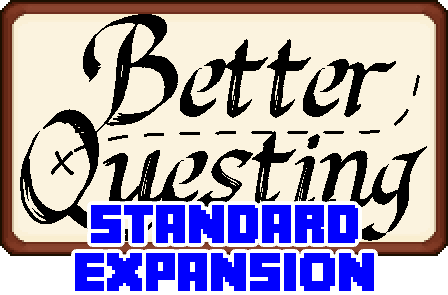
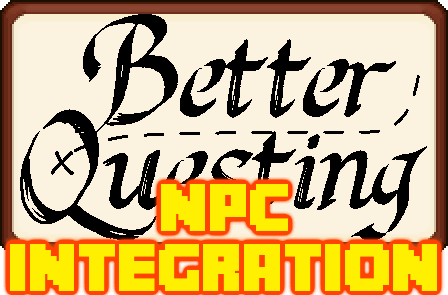
Added a few missing localizations Added faction task Fixed incorrect title card Fixed update notifications

Changed region(s): [[0.0, 0.5797, 1.0, 1.0]]

diff --git a/src/main/java/bq_npc_integration/tasks/TaskNpcFaction.java b/src/main/java/bq_npc_integration/tasks/TaskNpcFaction.java
@@ -2,18 +2,83 @@ package bq_npc_integration.tasks;
 
 import java.util.ArrayList;
 import java.util.UUID;
+import net.minecraft.entity.player.EntityPlayer;
+import noppes.npcs.controllers.PlayerData;
+import noppes.npcs.controllers.PlayerDataController;
 import betterquesting.client.gui.GuiQuesting;
 import betterquesting.client.gui.misc.GuiEmbedded;
+import betterquesting.quests.QuestDatabase;
 import betterquesting.quests.tasks.TaskBase;
+import betterquesting.utils.JsonHelper;
+import bq_npc_integration.client.gui.tasks.GuiTaskFaction;
 import bq_npc_integration.core.BQ_NPCs;
+import com.google.gson.JsonObject;
 
 public class TaskNpcFaction extends TaskBase
 {
+	public int factionID = 0;
+	public int target = 10;
+	public PointOperation operation = PointOperation.MORE_OR_EQUAL;
 	
 	@Override
 	public String getUnlocalisedName()
 	{
 		return BQ_NPCs.MODID + ".task.faction";
+	}
+	
+	@Override
+	public void Update(EntityPlayer player)
+	{
+		if(player.worldObj.getWorldTime()%60 != 0 || isComplete(player.getUniqueID()) || QuestDatabase.editMode)
+		{
+			return;
+		}
+		
+		Detect(player);
+	}
+	
+	@Override
+	public void Detect(EntityPlayer player)
+	{
+		if(isComplete(player.getUniqueID()))
+		{
+			return;
+		}
+		
+		PlayerData pData = PlayerDataController.instance.getPlayerData(player);
+		
+		if(pData == null || !pData.factionData.factionData.containsKey(factionID))
+		{
+			return;
+		}
+		
+		int points = pData.factionData.getFactionPoints(factionID);
+		
+		boolean flag = false;
+		
+		switch(operation)
+		{
+			case EQUAL:
+				flag = points == target;
+				break;
+			case LESS_THAN:
+				flag = points < target;
+				break;
+			case MORE_THAN:
+				flag = points > target;
+				break;
+			case LESS_OR_EQUAL:
+				flag = points <= target;
+				break;
+			case MORE_OR_EQUAL:
+				flag = points >= target;
+				break;
+		}
+		
+		if(flag)
+		{
+			this.completeUsers.add(player.getUniqueID());
+		}
 	}
 	
 	@Override
@@ -29,9 +94,49 @@ public class TaskNpcFaction extends TaskBase
 	}
 	
 	@Override
-	public GuiEmbedded getGui(GuiQuesting screen, int posX, int posY, int sizeX, int sizeY)
+	public void readFromJson(JsonObject json)
 	{
-		return null;
+		super.readFromJson(json);
+		
+		factionID = JsonHelper.GetNumber(json, "factionID", 0).intValue();
+		target = JsonHelper.GetNumber(json, "target", 1).intValue();
+		operation = PointOperation.valueOf(JsonHelper.GetString(json, "operation", "MORE_OR_EQUAL").toUpperCase());
+		operation = operation != null? operation : PointOperation.MORE_OR_EQUAL;
 	}
 	
+	@Override
+	public void writeToJson(JsonObject json)
+	{
+		super.writeToJson(json);
+		
+		json.addProperty("factionID", factionID);
+		json.addProperty("target", target);
+		json.addProperty("operation", operation.name());
+	}
+	
+	@Override
+	public GuiEmbedded getGui(GuiQuesting screen, int posX, int posY, int sizeX, int sizeY)
+	{
+		return new GuiTaskFaction(this, screen, posX, posY, sizeX, sizeY);
+	}
+	
+	public static enum PointOperation
+	{
+		EQUAL("="),
+		LESS_THAN("<"),
+		MORE_THAN(">"),
+		LESS_OR_EQUAL("<="),
+		MORE_OR_EQUAL(">=");
+		
+		String text = "";
+		PointOperation(String text)
+		{
+			this.text = text;
+		}
+		
+		public String GetText()
+		{
+			return text;
+		}
+	}
 }

diff --git a/src/main/java/bq_npc_integration/client/gui/tasks/GuiTaskFaction.java b/src/main/java/bq_npc_integration/client/gui/tasks/GuiTaskFaction.java
@@ -1,0 +1,44 @@
+package bq_npc_integration.client.gui.tasks;
+
+import net.minecraft.client.resources.I18n;
+import noppes.npcs.controllers.Faction;
+import noppes.npcs.controllers.FactionController;
+import noppes.npcs.controllers.PlayerData;
+import noppes.npcs.controllers.PlayerDataController;
+import betterquesting.client.gui.GuiQuesting;
+import betterquesting.client.gui.misc.GuiEmbedded;
+import betterquesting.client.themes.ThemeRegistry;
+import bq_npc_integration.tasks.TaskNpcFaction;
+
+public class GuiTaskFaction extends GuiEmbedded
+{
+	TaskNpcFaction task;
+	
+	public GuiTaskFaction(TaskNpcFaction task, GuiQuesting screen, int posX, int posY, int sizeX, int sizeY)
+	{
+		super(screen, posX, posY, sizeX, sizeY);
+		this.task = task;
+	}
+
+	@Override
+	public void drawGui(int mx, int my, float partialTick)
+	{
+		Faction fact = FactionController.getInstance().getFaction(task.factionID);
+		String factName = fact != null? I18n.format("bq_npc_integration.gui.faction_name", fact.name) : "?";
+		int points = -1;
+		
+		PlayerData pData = PlayerDataController.instance.getPlayerData(screen.mc.thePlayer);
+		
+		if(pData == null || !pData.factionData.factionData.containsKey(task.factionID))
+		{
+			points = -1;
+		} else
+		{
+			points = pData.factionData.getFactionPoints(task.factionID);
+		}
+		
+		screen.mc.fontRenderer.drawString(factName, posX, posY, ThemeRegistry.curTheme().textColor().getRGB(), false);
+		screen.mc.fontRenderer.drawString(points + " " + task.operation.GetText() + " " + task.target, posX, posY + 12, ThemeRegistry.curTheme().textColor().getRGB(), false);
+	}
+	
+}

diff --git a/src/main/java/bq_npc_integration/core/BQ_NPCs.java b/src/main/java/bq_npc_integration/core/BQ_NPCs.java
@@ -6,6 +6,7 @@ import betterquesting.quests.tasks.TaskRegistry;
 import bq_npc_integration.core.proxies.CommonProxy;
 import bq_npc_integration.handlers.ConfigHandler;
 import bq_npc_integration.tasks.TaskNpcDialog;
+import bq_npc_integration.tasks.TaskNpcFaction;
 import bq_npc_integration.tasks.TaskNpcQuest;
 import cpw.mods.fml.common.Mod;
 import cpw.mods.fml.common.Mod.EventHandler;
@@ -53,6 +54,7 @@ public class BQ_NPCs
     	
     	TaskRegistry.RegisterTask(TaskNpcQuest.class, "npc_quest");
     	TaskRegistry.RegisterTask(TaskNpcDialog.class, "npc_dialog");
+    	TaskRegistry.RegisterTask(TaskNpcFaction.class, "npc_faction");
     }
     
     @EventHandler

diff --git a/src/main/java/bq_npc_integration/tasks/TaskNpcDialog.java b/src/main/java/bq_npc_integration/tasks/TaskNpcDialog.java
@@ -22,7 +22,7 @@ public class TaskNpcDialog extends TaskBase
 	@Override
 	public void Update(EntityPlayer player)
 	{
-		if(player == null || player.worldObj.isRemote || player.worldObj.getTotalWorldTime()%60 != 0 || isComplete(player.getUniqueID()) || QuestDatabase.editMode)
+		if(player.worldObj.getTotalWorldTime()%60 != 0 || isComplete(player.getUniqueID()) || QuestDatabase.editMode)
 		{
 			return;
 		}
@@ -33,7 +33,7 @@ public class TaskNpcDialog extends TaskBase
 	@Override
 	public void Detect(EntityPlayer player)
 	{
-		if(player == null || player.worldObj.isRemote)
+		if(isComplete(player.getUniqueID()))
 		{
 			return;
 		}

diff --git a/src/main/java/bq_npc_integration/client/gui/UpdateNotification.java b/src/main/java/bq_npc_integration/client/gui/UpdateNotification.java
@@ -32,7 +32,7 @@ public class UpdateNotification
 		
 		try
 		{
-			String[] data = getNotification("", true).split("\\n"); // TODO: NEED URL
+			String[] data = getNotification("http://bit.ly/1SNSYKv", true).split("\\n");
 			
 			if(BQN_Settings.hideUpdates)
 			{
